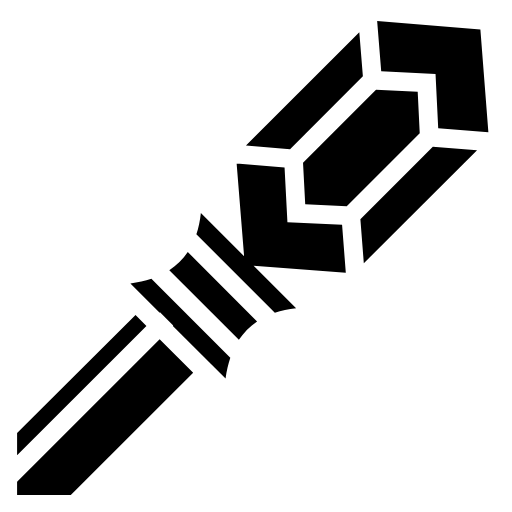
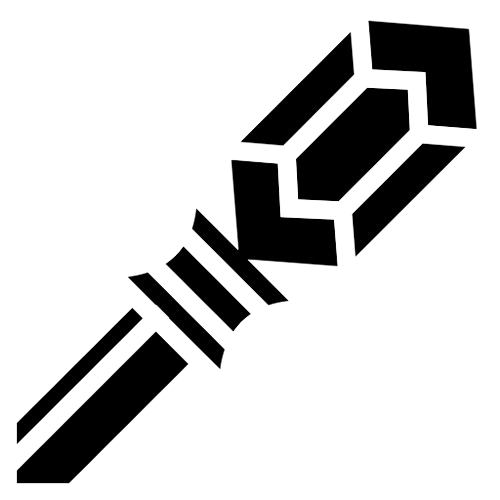
upgrades done
fixed upgrades images
added funcitonality
added tooltips instead of text

diff --git a/level_up_interface.py b/level_up_interface.py
@@ -45,6 +45,11 @@ class Interface_levelup():
         self.box_3.center = (self.center_x+320,self.center_y)
         self.upgrade_ausgewaehlt = False
         
+        #hover
+        self.hover_1 = False
+        self.hover_2 = False
+        self.hover_3 = False
+        
         #farben initialisieren
         self.color_1 = "white"
         self.color_2 = "white"
@@ -52,6 +57,12 @@ class Interface_levelup():
         
         self.current_upgrades = []
         self.randomized = False
+        
+        #upgrade level
+        self.health_level = 0
+        self.speed_level = 0
+        self.cooldown_level = 0
+        self.projectile_speed_level = 0
         
     def get_font(self,size):
         """Gibt eine Schriftart zurück mit gegebener 
@@ -70,21 +81,35 @@ class Interface_levelup():
         pygame.draw.rect(self.screen, self.color_1, self.box_1, border_radius=25)
         pygame.draw.rect(self.screen, self.color_2, self.box_2, border_radius=25)
         pygame.draw.rect(self.screen, self.color_3, self.box_3, border_radius=25)
-        self.screen.blit(self.get_font(30).render(self.current_upgrades[0], True, "black"),(self.box_1.x+20,self.box_1.y+20))
-        self.screen.blit(self.get_font(30).render(self.current_upgrades[1], True, "black"),(self.box_2.x+20,self.box_2.y+20))#
-        self.screen.blit(self.get_font(30).render(self.current_upgrades[2], True, "black"),(self.box_3.x+20,self.box_3.y+20))
+        #self.screen.blit(self.get_font(30).render(self.current_upgrades[0], True, "black"),(self.box_1.x+20,self.box_1.y+20))
+        #self.screen.blit(self.get_font(30).render(self.current_upgrades[1], True, "black"),(self.box_2.x+20,self.box_2.y+20))#
+        #self.screen.blit(self.get_font(30).render(self.current_upgrades[2], True, "black"),(self.box_3.x+20,self.box_3.y+20))
         
         for i in range(3):
             box = getattr(self,"box_"+str(i+1))
-            print(box)
+            
             if self.current_upgrades[i] == "health":
                 self.screen.blit(self.health_image,(box.center[0]-self.size_upgrade/2,box.center[1]-self.size_upgrade/2))
+                self.screen.blit(self.get_font(30).render("Level: "+str(self.health_level), True, "black"),(box.x+20,box.y+20))
+                
             if self.current_upgrades[i] == "speed":
                 self.screen.blit(self.speed_image,(box.center[0]-self.size_upgrade/2,box.center[1]-self.size_upgrade/2))
+                self.screen.blit(self.get_font(30).render("Level: "+str(self.speed_level), True, "black"),(box.x+20,box.y+20))
+                
             if self.current_upgrades[i] == "cooldown":
                 self.screen.blit(self.cooldown_image,(box.center[0]-self.size_upgrade/2,box.center[1]-self.size_upgrade/2))
+                self.screen.blit(self.get_font(30).render("Level: "+str(self.cooldown_level), True, "black"),(box.x+20,box.y+20))
+                
             if self.current_upgrades[i] == "projectile_speed":
                 self.screen.blit(self.projectile_speed_image,(box.center[0]-self.size_upgrade/2,box.center[1]-self.size_upgrade/2))
+                self.screen.blit(self.get_font(30).render("Level: "+str(self.projectile_speed_level), True, "black"),(box.x+20,box.y+20))
+        
+        if self.hover_1:
+            self.show_tooltip(self.current_upgrades[0],pygame.mouse.get_pos())
+        if self.hover_2:
+            self.show_tooltip(self.current_upgrades[1],pygame.mouse.get_pos())
+        if self.hover_3:
+            self.show_tooltip(self.current_upgrades[2],pygame.mouse.get_pos())
         
     def update(self, dt):
         """ Updated die Level Up Oberfläche, indem es schaut welches Upgrade der Spieler wählt.
@@ -116,21 +141,45 @@ class Interface_levelup():
             if self.box_1.collidepoint(mouse_pos[0],mouse_pos[1]):
                 #pygame.draw.rect(self.screen, "grey", self.box_1, border_radius=25)
                 self.color_1 = "grey"
+                self.hover_1 = True
+                #self.show_tooltip(self.current_upgrades[0],mouse_pos)
             else:
                 self.color_1 = "white"
+                self.hover_1 = False
             #box 2
             if self.box_2.collidepoint(mouse_pos[0],mouse_pos[1]):
                 #pygame.draw.rect(self.screen, "grey", self.box_2, border_radius=25)
                 self.color_2 = "grey"
+                self.hover_2 = True
+                #self.show_tooltip(self.current_upgrades[1],mouse_pos)
             else:
                 self.color_2 = "white"
+                self.hover_2 = False
             #box 3
             if self.box_3.collidepoint(mouse_pos[0],mouse_pos[1]):
                 #pygame.draw.rect(self.screen, "grey", self.box_3, border_radius=25)
                 self.color_3 = "grey"
+                self.hover_3 = True
+                #self.show_tooltip(self.current_upgrades[2],mouse_pos)
             else:
                 self.color_3 = "white"
+                self.hover_3 = False
         
+        
+        
+    def show_tooltip(self,upgrade,mouse_pos):
+        if upgrade == "health":
+            self.draw_tooltip("Health","Increases your maximum health by 1",mouse_pos)
+        if upgrade == "speed":
+            self.draw_tooltip("Speed","Increases your movement speed by 20%",mouse_pos)
+        if upgrade == "cooldown":
+            self.draw_tooltip("Cooldown","Decreases your wand cooldown by 20%",mouse_pos)
+        if upgrade == "projectile_speed":
+            self.draw_tooltip("Projectile Speed","Increases your projectile speed by 20%",mouse_pos)
+        
+    def draw_tooltip(self,title,text,mouse_pos):
+        self.screen.blit(self.get_font(25).render(title, True, "black"),(mouse_pos[0]+20,mouse_pos[1]+20))
+        self.screen.blit(self.get_font(15).render(text, True, "black"),(mouse_pos[0]+20,mouse_pos[1]+50))
         
     def randomize_upgrades(self):
         """Wählt zufällig 3 Upgrades aus der Liste aus und speichert sie in self.current_upgrades.
@@ -143,18 +192,18 @@ class Interface_levelup():
         if self.current_upgrades[box] == "health":
             self.player.max_health_points += 1
             self.player.current_health_points += 1
-        
-        if self.current_upgrades[box] == "damage":
-            print("damage")
+            self.health_level += 1
         
         if self.current_upgrades[box] == "speed":
-            print("speed")
+            self.player.speed = self.player.speed * 1.2 
+            self.speed_level += 1
         
         if self.current_upgrades[box] == "cooldown":
-            print("cooldown")
+            self.player.wand.base_cooldown = self.player.wand.base_cooldown * 0.8
+            self.cooldown_level += 1
         
         if self.current_upgrades[box] == "projectile_speed":
-            print("projectile_speed")
+            self.player.wand.projectile_speed = self.player.wand.projectile_speed * 1.2
+            self.projectile_speed_level += 1
         
-        
-        
+        self.player.wand.current_cooldown = 0

diff --git a/wand.py b/wand.py
@@ -11,6 +11,7 @@ class Wand(): #Wand = Zauberstab
         self.current_cooldown = 0
         self.type = 'fire'
         self.group = group
+        self.projectile_speed = 400
         
     def draw_cooldown(self,screen):
         """Zeichnet den Cooldown des Wands auf den Screen.
@@ -24,9 +25,9 @@ class Wand(): #Wand = Zauberstab
     def use(self,mouse_pos):
         """Fügt dem Spieler eine neue Projektile Instanz hinzu, aber nur wenn der Cooldown abgelaufen ist.
         """
-        if self.current_cooldown == 0:
+        if self.current_cooldown <= 0:
             self.mouse_pos = mouse_pos
             self.current_cooldown = self.base_cooldown
-            self.group.add(Projectile(self.player_pos, self.type, self.mouse_pos))
+            self.group.add(Projectile(self.player_pos, self.type, self.mouse_pos, self.projectile_speed))
 
         

diff --git a/player_xp.py b/player_xp.py
@@ -5,8 +5,8 @@ class Player_xp():
         """Initialisiert die Klasse Player_xp.
         """
         self.level = 0
-        self.current_xp = 9
-        self.xp_for_next_level = 10
+        self.current_xp = 0
+        self.xp_for_next_level = 1
         self.length = 600
         self.height = 15
 
@@ -40,10 +40,10 @@ class Player_xp():
         """Levelt den Spieler hoch und setzt die XP auf 0.
         """
         self.current_xp = 0
-        self.xp_for_next_level += 10
+        self.xp_for_next_level += 5 * self.level//2
         self.level += 1
         self.level_up_hilfe = True
-        
+        print(self.xp_for_next_level)
     
     def update(self,screen):
         """Updated die Klasse Player_xp.

diff --git a/projectile.py b/projectile.py
@@ -5,7 +5,7 @@ import settings
 class Projectile(pygame.sprite.Sprite):
     """Initialisiert die Projectile Klasse.
     """
-    def __init__(self, player_pos, type, mouse_pos):
+    def __init__(self, player_pos, type, mouse_pos, speed):
         super().__init__()
         self.import_assets()
         self.image = pygame.Surface((10,50))
@@ -16,7 +16,7 @@ class Projectile(pygame.sprite.Sprite):
         self.image = self.animations[self.type][self.frame_index]
         self.rect = self.image.get_rect(center=(player_pos))
         self.vector = pygame.Vector2(self.rect.center) 
-        self.speed = 400
+        self.speed = speed
         
         self.hit_animate_help = 0
         

diff --git a/main.py b/main.py
@@ -19,6 +19,7 @@ class Main:
         self.running = True
         self.state = "startscreen"
         
+          
         
         
     def run(self):
